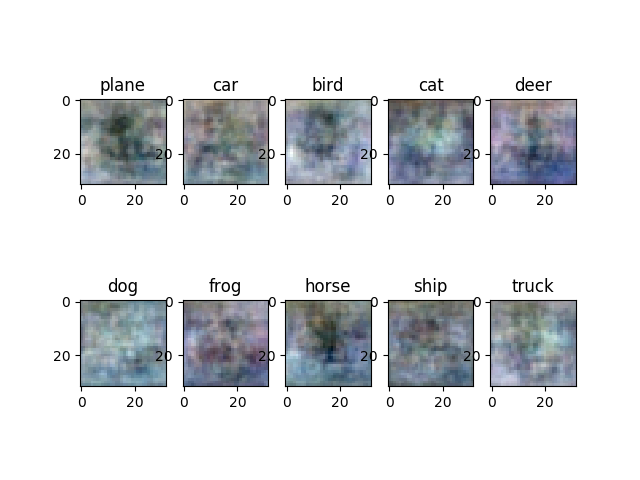
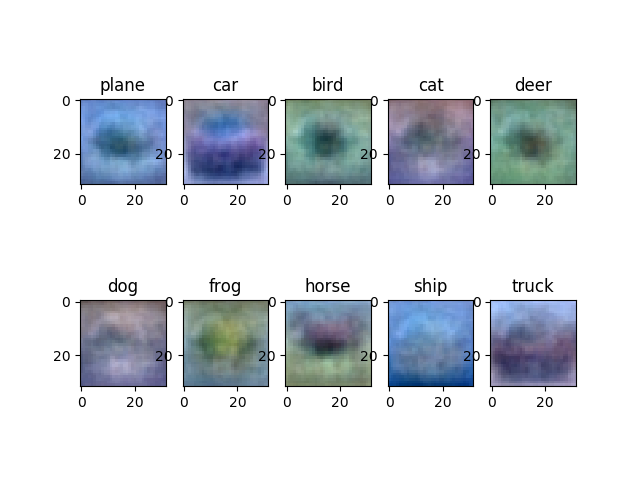
completed code

Changed region(s): [[0.125, 0.1875, 0.9062, 0.4062], [0.125, 0.625, 0.9062, 0.8125]]

diff --git a/svm.py b/svm.py
@@ -13,7 +13,6 @@ class Svm (object):
         #########################################################################
         sigma =0.01
         self.W = sigma * np.random.randn(inputDim,outputDim)
-        pass
         #########################################################################
         #                       END OF YOUR CODE                                #
         #########################################################################
@@ -45,17 +44,26 @@ class Svm (object):
         # Bonus:                                                                    #
         # - +2 points if done without loop                                          #
         #############################################################################
+        #Calculating score matrix
         s = x.dot(self.W)
+        #Score with yi
         s_yi = s[np.arange(x.shape[0]),y]
+        #finding the delta
         delta = s- s_yi[:,np.newaxis]+1
+        #loss for samples
         loss_i = np.maximum(0,delta)
         loss_i[np.arange(x.shape[0]),y]=0
         loss = np.sum(loss_i)/x.shape[0]
-        ds = (delta >0).astype(int)
-        ds[np.arange(x.shape[0]),y] =np.sum(ds,axis=1)-ds[np.arange(x.shape[0]),y]
+        #Loss with regularization
+        loss += reg*np.sum(self.W*self.W)
+        #Calculating ds
+        ds = np.zeros_like(delta)
+        ds[delta > 0] = 1
+        ds[np.arange(x.shape[0]),y] = 0
+        ds[np.arange(x.shape[0]),y] = -np.sum(ds, axis=1)
+
         dW = (1/x.shape[0]) * (x.T).dot(ds)
         dW = dW + (2* reg* self.W)
-        pass
         #############################################################################
         #                          END OF YOUR CODE                                 #
         #############################################################################
@@ -98,13 +106,13 @@ class Svm (object):
             # Hint:                                                                 #
             # - Use np.random.choice                                                #
             #########################################################################
-
-            xBatch = x[np.random.choice(x.shape[0], batchSize)]
-            yBatch = y[np.random.choice(y.shape[0], batchSize)]
+            #creating batch
+            num_train = np.random.choice(x.shape[0], batchSize)
+            xBatch = x[num_train]
+            yBatch = y[num_train]
             loss, dW = self.calLoss(xBatch,yBatch,reg)
             self.W= self.W - lr * dW
             lossHistory.append(loss)
-            pass
             #########################################################################
             #                       END OF YOUR CODE                                #
             #########################################################################
@@ -132,7 +140,6 @@ class Svm (object):
         ###########################################################################
         s = x.dot(self.W)
         yPred = np.argmax(s, axis=1)
-        pass
         ###########################################################################
         #                           END OF YOUR CODE                              #
         ###########################################################################
@@ -146,10 +153,7 @@ class Svm (object):
         # -  Calculate accuracy of the predict value and store to acc variable    #
         ###########################################################################
         yPred = self.predict(x)
-        print(yPred[:40])
-        print(y[:40])
         acc = np.mean(y == yPred)*100
-        pass
         ###########################################################################
         #                           END OF YOUR CODE                              #
         ###########################################################################

diff --git a/softmax.py b/softmax.py
@@ -13,7 +13,6 @@ class Softmax (object):
         #########################################################################
         sigma =0.01
         self.W = sigma * np.random.randn(inputDim,outputDim)
-        pass
         #########################################################################
         #                       END OF YOUR CODE                                #
         #########################################################################
@@ -54,16 +53,18 @@ class Softmax (object):
         # calculating base
         sum_f = np.sum(exp_s_, axis=1, keepdims=True)
         # calculating probability of incorrect label by dividing by base
-        p_yi = exp_s_[np.arange(N),y]/sum_f
+        p = exp_s_/sum_f
+        p_yi= p[np.arange(N),y]
         # Calculating loss by applying log over the probability
         loss_i = - np.log(p_yi)
         #keep as column vector
+        #TODO: add regularization
         loss = np.sum(loss_i)/N
-        ds = (exp_s_ >0).astype(int)
+        loss += reg * np.sum(self.W*self.W)
+        ds = p.copy()
         ds[np.arange(x.shape[0]),y] += -1
-        dW = (1/x.shape[0]) * (x.T).dot(ds)
+        dW = (x.T).dot(ds)/N
         dW = dW + (2* reg* self.W)
-        pass
         #############################################################################
         #                          END OF YOUR CODE                                 #
         #############################################################################
@@ -106,15 +107,13 @@ class Softmax (object):
             # Hint:                                                                 #
             # - Use np.random.choice                                                #
             #########################################################################
-            xBatch = x[np.random.choice(x.shape[0], batchSize)]
-            yBatch = y[np.random.choice(y.shape[0], batchSize)]
+            num_train = np.random.choice(x.shape[0], batchSize)
+            xBatch = x[num_train]
+            yBatch = y[num_train]
             loss, dW = self.calLoss(xBatch,yBatch,reg)
             self.W= self.W - lr * dW
             lossHistory.append(loss)
 
-
-
-            pass
             #########################################################################
             #                       END OF YOUR CODE                                #
             #########################################################################
@@ -141,7 +140,6 @@ class Softmax (object):
         ###########################################################################
         s =x.dot(self.W)
         yPred = np.argmax(s, axis=1)
-        pass
         ###########################################################################
         #                           END OF YOUR CODE                              #
         ###########################################################################
@@ -156,9 +154,6 @@ class Softmax (object):
         ###########################################################################
         yPred = self.predict(x)
         acc = np.mean(y == yPred)*100
-        print(yPred[:40])
-        print(y[:40])
-        pass
         ###########################################################################
         #                           END OF YOUR CODE                              #
         ###########################################################################

diff --git a/runSvmSoftmax.py b/runSvmSoftmax.py
@@ -121,6 +121,8 @@ if classifier.W is not None:
 
 # Tuneup hyper parameters (regularization strength, learning rate) by using validation data set,
 # and random search technique to find the best set of parameters.
+learn_rates = [0.5e-7, 1e-7, 2e-7, 6e-7]
+reg_strengths = [500,5000,18000]
 bestParameters = [0, 0]
 bestAcc = -1
 bestModel = None
@@ -133,16 +135,16 @@ print ('\nFinding best model for Svm classifier')
 # - Store the best model in bestSoftmax                                        #
 # - Store the best accuracy in bestAcc                                         #
 ################################################################################
-
-
-
-
-
-
-
-
-
-
+for rs in reg_strengths:
+    for lr in learn_rates:
+        #print(str(lr)+"     "+str(rs))
+        classifier = Svm(xTrain.shape[1], numClasses)
+        classifier.train(xTrain, yTrain, lr, rs, iter=1500 ,verbose=False)
+        valAcc = classifier.calAccuracy(xVal, yVal)
+        if valAcc > bestAcc:
+            bestAcc = valAcc
+            bestModel = classifier
+        bestParameters = [lr,rs]
 
 pass
 ################################################################################
@@ -211,6 +213,8 @@ if classifier.W is not None:
 
 # Tuneup hyper parameters (regularization strength, learning rate) by using validation data set,
 # and random search technique to find the best set of parameters.
+learn_rates = [0.5e-7,4e-7, 8e-7]
+reg_strengths = [ 500,1500,7500,12000]
 bestParameters = [0, 0]
 bestAcc = -1
 bestModel = None
@@ -222,16 +226,16 @@ print ('\nFinding best model for Softmax classifier')
 # - Store the best model in bestSoftmax                                        #
 # - Store the best accuracy in bestAcc                                         #
 ################################################################################
+for rs in reg_strengths:
+    for lr in learn_rates:
+        classifier = Softmax(xTrain.shape[1], numClasses)
+        classifier.train(xTrain, yTrain, lr, rs, iter=1500 ,verbose=False)
+        valAcc = classifier.calAccuracy(xVal, yVal)
+        if valAcc > bestAcc:
+            bestAcc = valAcc
+            bestModel = classifier
+        bestParameters = [lr,rs]
 
-
-
-
-
-
-
-
-
-pass
 ################################################################################
 #                              END OF YOUR CODE                                #
 ################################################################################
